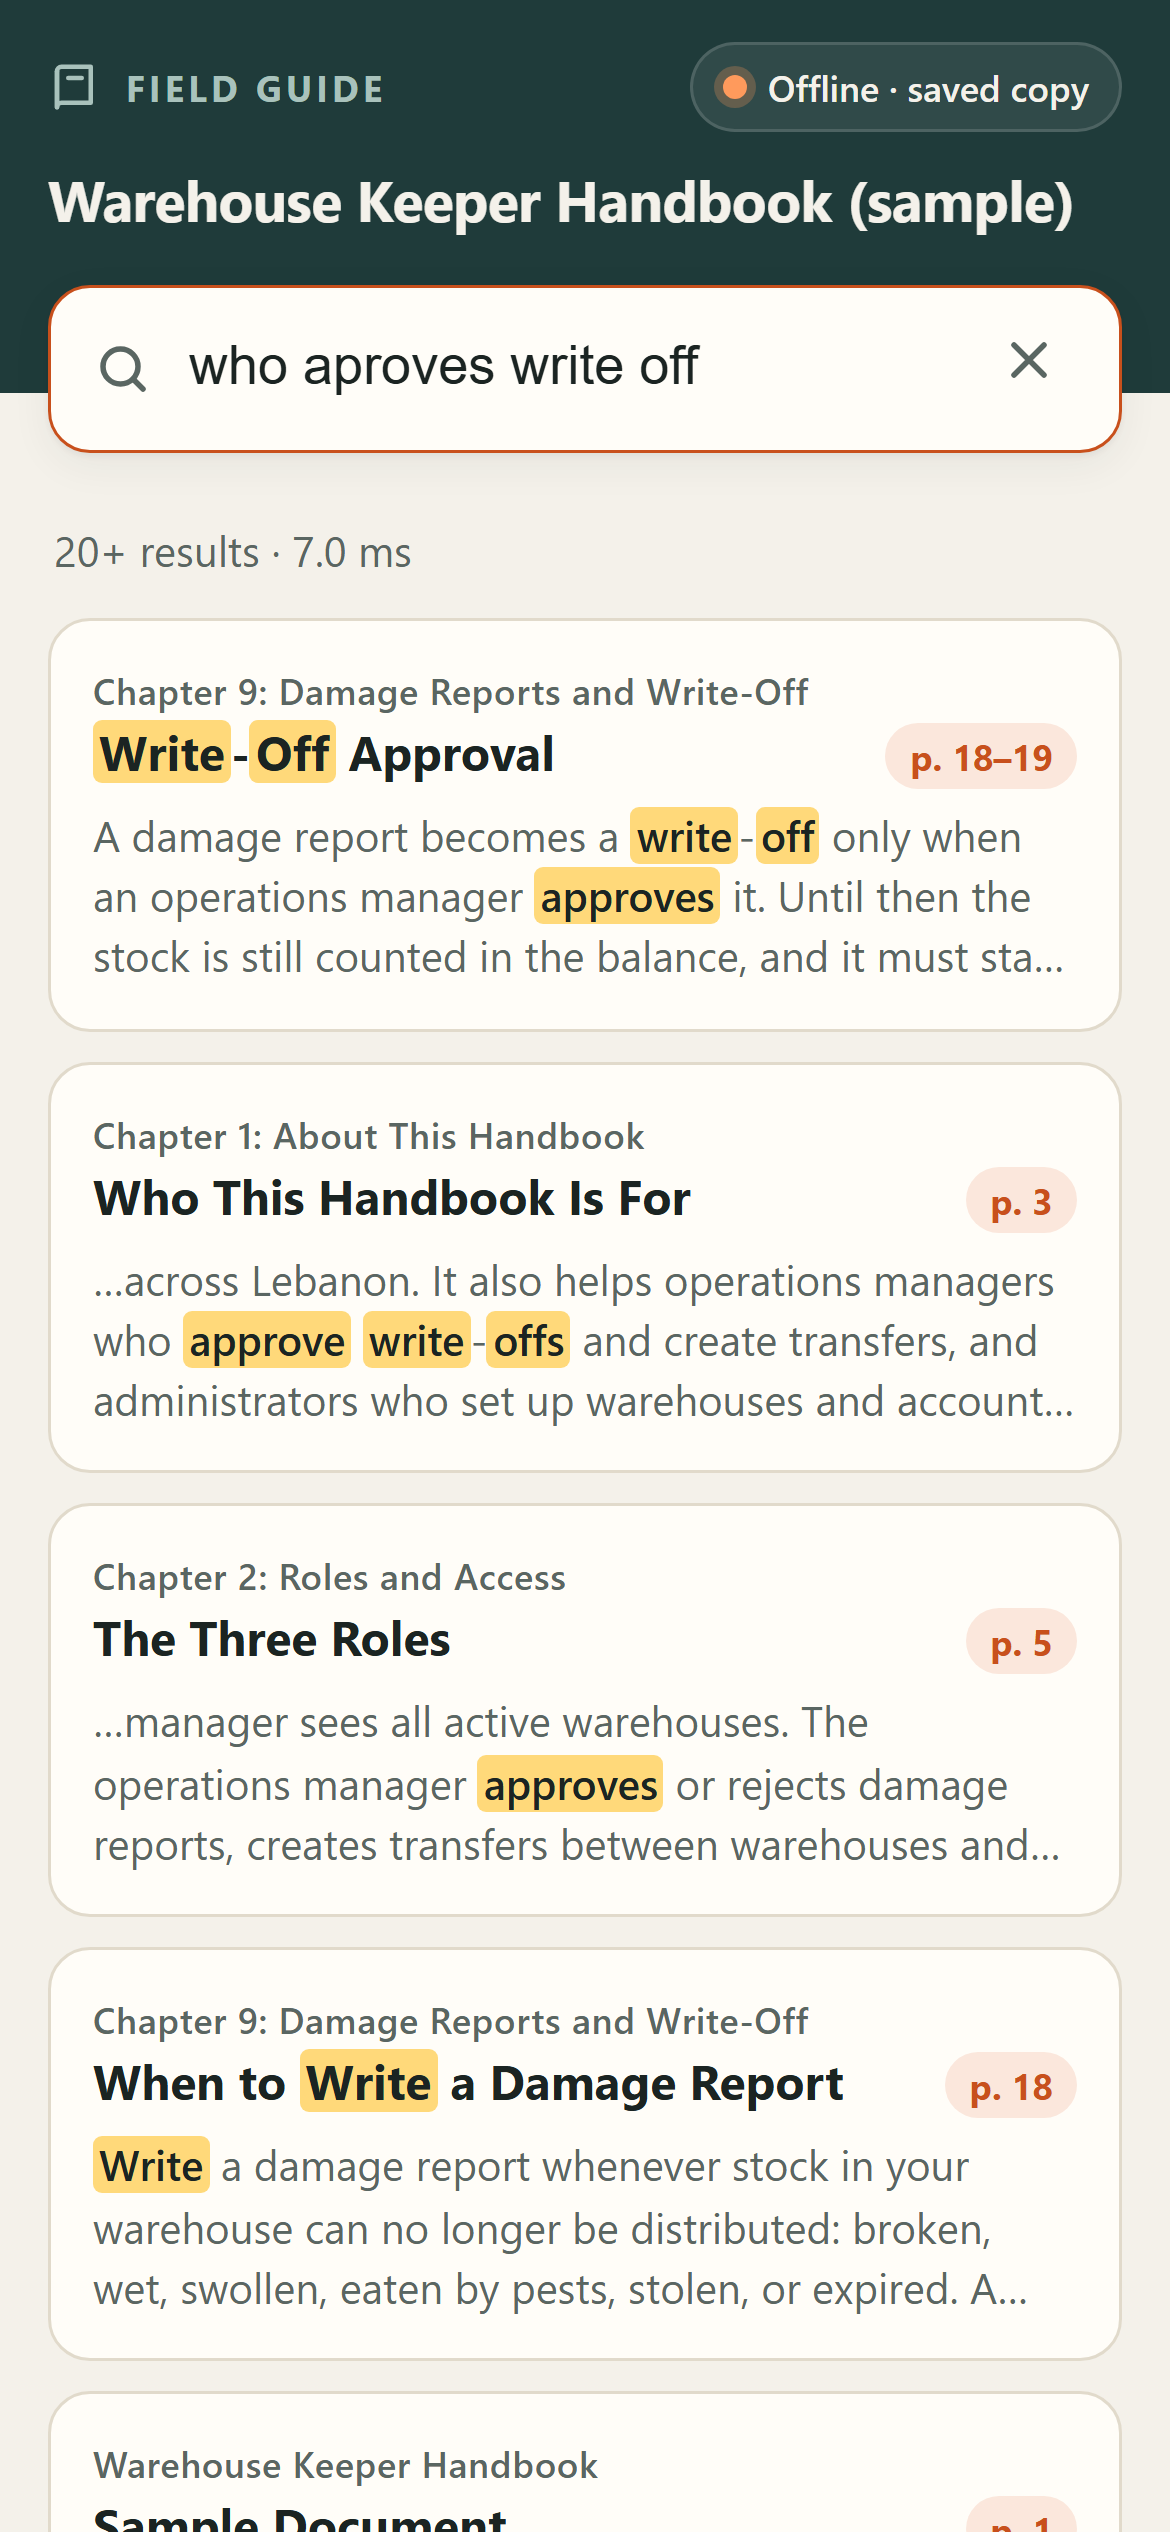
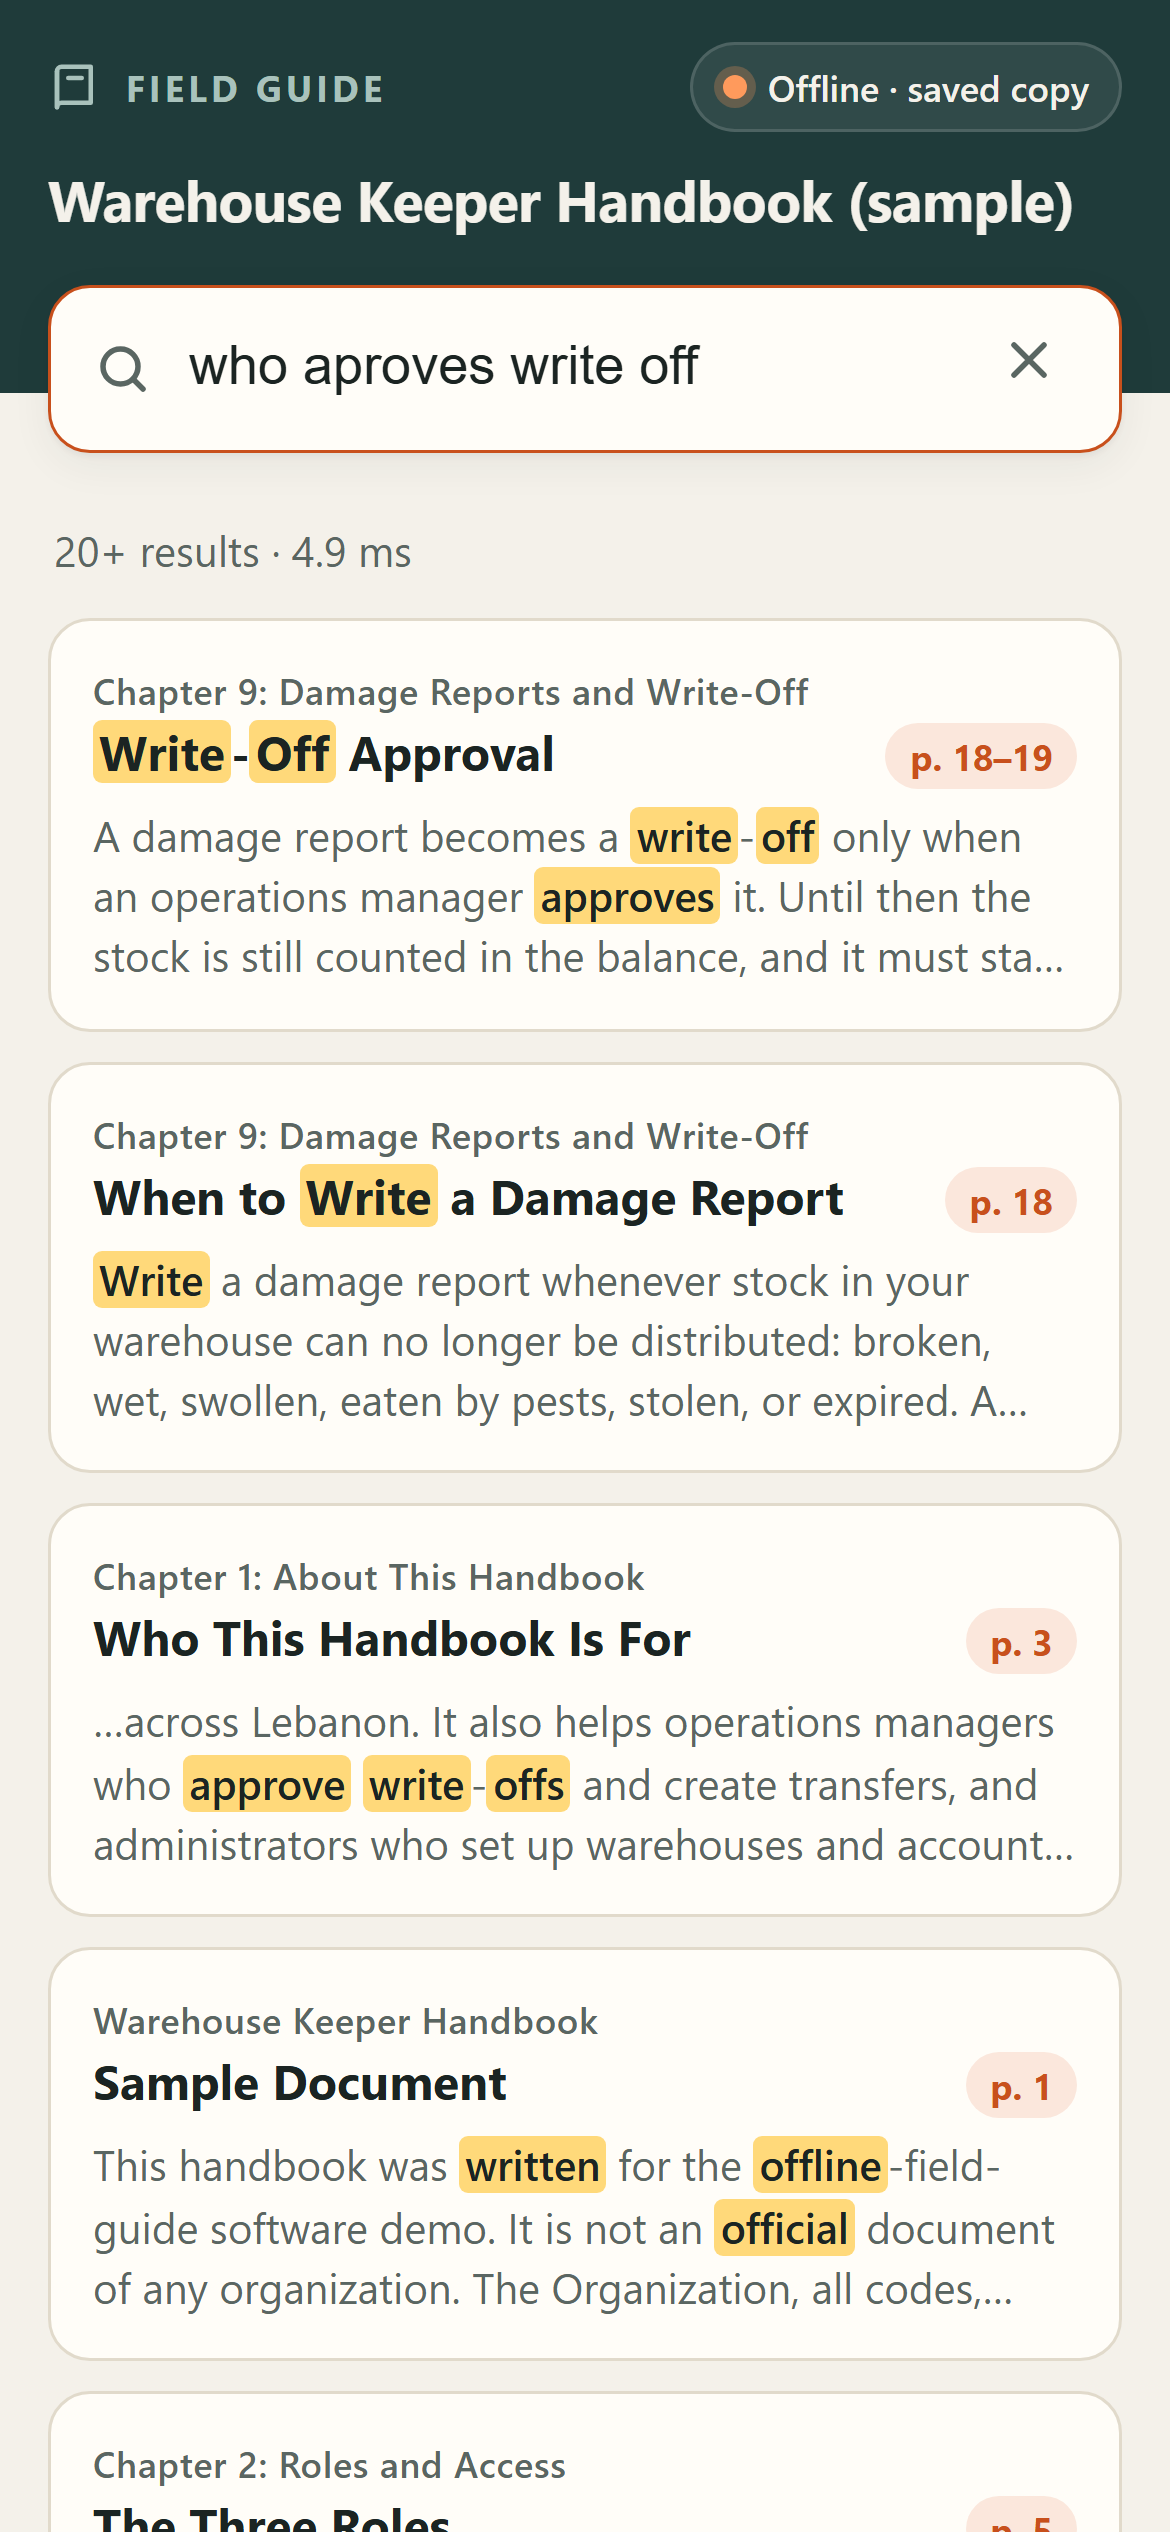
README: before/after on the tuned sets, unseen set once; recaptured screenshots

diff --git a/README.md b/README.md
@@ -6,13 +6,13 @@ Give it a long PDF manual and it builds a searchable guide that keeps working on
 
 <table>
 <tr>
-<td><img src="docs/results.png" width="250" alt="Search results for expired cans"></td>
+<td><img src="docs/results.png" width="250" alt="Search results for a misspelled query"></td>
 <td><img src="docs/section.png" width="250" alt="An opened procedure with highlighted terms and its source page"></td>
 <td><img src="docs/offline-search.png" width="250" alt="A misspelled search working with the network off"></td>
 </tr>
 <tr>
-<td>"expired cans"</td>
-<td>"damged box": the procedure, terms highlighted, source page shown</td>
+<td>"damged box": the procedure comes first</td>
+<td>The procedure opened, terms highlighted, source page shown</td>
 <td>"who aproves write off" with the network cut</td>
 </tr>
 </table>
@@ -66,17 +66,17 @@ Real output (the CERT build takes about 1.5 minutes, mostly table detection):
 ```
 Read 42 pages from warehouse-keeper-handbook.pdf
 Sections:        64
-Index terms:     1,021
+Index terms:     994
 sections.json:   58 KB
-index.json:      27 KB
-Total download:  133 KB in 10 files
+index.json:      29 KB
+Total download:  138 KB in 10 files
 Wrote site
 Read 268 pages from cert-basic-training-participant-manual.pdf
 Sections:        342
-Index terms:     3,612
+Index terms:     3,465
 sections.json:   412 KB
-index.json:      177 KB
-Total download:  638 KB in 10 files
+index.json:      189 KB
+Total download:  651 KB in 10 files
 Wrote site/cert
 Serving site at http://localhost:8101/
 ```
@@ -110,33 +110,50 @@ site/cert/    a second guide, with its own service worker and cache
 |---|---|
 | Page breaks | Headers and footers are removed first, so the last line of page N meets the first line of page N+1. A step or paragraph that has not finished its sentence continues; step 6 after step 5 extends the same procedure. |
 | Tables | Found with PyMuPDF's table finder; their cells are kept out of the text flow, so a bold header row is never mistaken for a heading. A table at the top of the next page stays with its section, and a table split over pages is merged with its repeated header row dropped. |
-| Search | `search.js`, about 180 lines of plain JavaScript, no dependencies. BM25 over the sections; each query word also matches words that start with it and, when nothing matches, words one typo away (two for long words). Accents are ignored, so "reception" finds "réception". |
+| Search | `search.js`, about 220 lines of plain JavaScript, no dependencies. BM25 over the sections; each query word also matches words that start with it and, when nothing matches, words one typo away (two for long words). Accents are ignored, so "reception" finds "réception". |
+| Ranking rules | A query word found in a section's own heading adds a bonus. Reference sections (glossary, appendices, lists, catalogues, forms, checklists, quick-reference cards, and sections that are almost all table) get 0.6 of their score, so the section that explains a procedure comes first when both match. Five groups of everyday equivalents (fewer/less, purchase order/PO, receive/receipt/reception, broken/damaged, amount/quantity) and plural/verb forms ("boxes" = "box", "damaged" = "damage"). |
 | Offline | Each guide's service worker caches every file of that guide on first load and serves from the cache afterwards. Caches are named per guide, so the two guides on one site never delete each other's files. |
 
 ## Results
 
 `node bench/run_bench.js <site> <questions>` runs the shipped `search.js`
 under Node. A hit means the opened section contains a page that holds the
-answer and is at most 6 pages long.
+answer and is at most 6 pages long. Three question sets:
 
-| | Handbook (new) | FEMA CERT manual |
+| Set | Who wrote it | Used for tuning? |
 |---|---|---|
-| Questions | 23 (20 English, 3 French) | 26 |
-| Top-1 accuracy | **17/23 (74%)** | 25/26 (96%), unchanged |
-| Top-3 accuracy | **20/23 (87%)** | 26/26 (100%), unchanged |
-| Index size | 27 KB (8 KB gzipped) | 177 KB (51 KB gzipped) |
-| Download, no page images | 134 KB, 10 files | 643 KB, 10 files |
-| Download, with page images | 1.04 MB, 52 files | 7.16 MB, 278 files |
-| Search time, median / p95 | 0.02 / 0.53 ms | 0.04 / 2.15 ms |
+| Handbook, original 23 (20 English, 3 French) | Me, the author of the handbook, before running any search on it | **Yes**, the ranking rules were tuned on it |
+| FEMA CERT, 26 | Me, after reading the manual (first version) | **Yes**, as a check that nothing got worse |
+| Handbook, unseen 25 (incl. 5 misspelled, 3 French) | A different model (Google Gemini) from the handbook's PDF text only, without seeing the other sets or the code | **No**, committed before any ranking change and measured once at the end |
 
-How the handbook questions were made: I wrote both the handbook and its
-questions, so this is not an independent test. I wrote the 23 questions the
-way a keeper might type them (three misspelled, three in French) after writing
-the handbook and **before running any search on it**, each with a phrase from
-the handbook that answers it; `bench/resolve_pages.py` turns the phrases into
-page numbers. I did not change any rule or label after seeing the results. The
-CERT questions and engine are the same as in the first version, so its numbers
-did not change.
+Accuracy before and after the ranking round:
+
+| Set | Top-1 before | Top-1 after | Top-3 before | Top-3 after |
+|---|---|---|---|---|
+| Handbook, original 23 (tuned on) | 17/23 (74%) | **20/23 (87%)** | 20/23 (87%) | **21/23 (91%)** |
+| FEMA CERT, 26 (tuned on) | 25/26 (96%) | 25/26 (96%) | 26/26 (100%) | 26/26 (100%) |
+| Handbook, unseen 25 (measured once) | not measured | **23/25 (92%)** | not measured | **24/25 (96%)** |
+
+The unseen set scored higher than the set I tuned on. That should not be read
+as "the tool is better than it looks": that model's questions stay closer to
+the handbook's wording than mine, and I saw its 25 queries when I checked the
+file format (I kept the synonym list to the general pairs named above, and
+measured the set only once, after the code was committed).
+
+Size and speed (final build):
+
+| | Handbook | FEMA CERT manual |
+|---|---|---|
+| Index size | 29 KB (9 KB gzipped) | 189 KB (53 KB gzipped) |
+| Download, no page images | 139 KB, 10 files | 656 KB, 10 files |
+| Download, with page images | 1.05 MB, 52 files | 7.17 MB, 278 files |
+| Search time, median / p95 | 0.02 / 0.48 ms | 0.04 / 1.56 ms |
+
+How the question sets were made: I wrote both the handbook and the original
+23 questions, so that set is not an independent test. Each question in every
+set carries a phrase from the manual that answers it;
+`bench/resolve_pages.py` turns the phrases into page numbers, and a test fails
+if a phrase stops matching the PDF.
 
 Offline proof, `python scripts/offline_check.py` (Playwright, headless
 Chromium, phone viewport): it opens both guides online, cuts the network,
@@ -149,9 +166,9 @@ PASS  /cert/: service worker active, caches hold [52, 278] files
 PASS  / opens with the network off: 'Warehouse Keeper Handbook (sample)'
 PASS  status shows offline ('Offline · saved copy')
 PASS  a request outside the cache fails (really offline)
-PASS  search 'damged box' offline: 20 results, top: 'Terms Used in This Handbook'
-PASS  opened section 'Terms Used in This Handbook' with 6 highlighted terms
-PASS  shows the source page ('Page 33 of the original')
+PASS  search 'damged box' offline: 20 results, top: 'Recording Damaged Stock'
+PASS  opened section 'Recording Damaged Stock' with 10 highlighted terms
+PASS  shows the source page ('Page 18 of the original')
 PASS  /cert/ opens with the network off: 'CERT Basic Training Participant Manual'
 PASS  status shows offline ('Offline · saved copy')
 PASS  a request outside the cache fails (really offline)
@@ -161,7 +178,7 @@ PASS  shows the source page ('Page 177 of the original')
 OFFLINE CHECK PASSED
 ```
 
-Tests: `pytest` runs 37 tests. The handbook tests regenerate the PDF and check
+Tests: `pytest` runs 42 tests. The handbook tests regenerate the PDF and check
 that each procedure the layout put over a page break comes out as one list,
 that the exceptions table at the top of page 11 stays in "Problems at
 Receipt", that the 77-row item table split over pages 34 to 36 is one table with
@@ -171,13 +188,14 @@ PDFs for the same hard cases and run the real `search.js` under Node.
 
 ## Where it fails
 
-- **Glossary and appendices outrank the explanation.** "damged box" opens the
-  glossary first (the procedure is third); "unlock warehouse" opens the
-  warehouse list, where "Unlocked" appears 26 times; "short expiry donation"
-  opens a paper form.
-- **Different words for the same thing.** "less pieces than order" misses the
-  row "Fewer pieces than the purchase order": there is no synonym handling.
-- **Strict labels.** "recieve without po" and "balance negative" are counted
+- **Down-weighting reference sections cuts both ways.** "soap bar pieces per
+  box" (unseen set) misses: the answer is a row of the item catalogue, which is
+  now a reference section, so "Counting in Pieces" wins. The same rule fixed
+  "damged box", which used to open the glossary.
+- **Heading bonus can pick the wrong heading.** "expired cans" now opens
+  "First Expired, First Out" first; the expiry check that answers it is
+  second.
+- **Strict labels.** "recieve without po" and "balance negative" still count
   as misses, but their top results ("If a Delivery Arrives Without an Accepted
   Purchase Order", "If the System Refuses a Paper Document") also answer the
   question. I kept the labels I wrote before running the test.
@@ -196,7 +214,7 @@ PDFs for the same hard cases and run the real `search.js` under Node.
 
 ## What I would add next
 
-- A confidence floor that says "not covered in this manual", and a small synonym list per manual.
+- A confidence floor that says "not covered in this manual", and an optional synonym list per manual.
 - Arabic tokenization and an Arabic version of the handbook.
 - An optional LLM step that answers in one sentence and cites the section; the retrieval here would be its source of truth.
 

diff --git a/CLAUDE.md b/CLAUDE.md
@@ -33,4 +33,5 @@ node bench/run_bench.js site/cert bench/cert-questions.json
 - After editing handbook.txt: regenerate the PDF, then run resolve_pages.py; tests check both.
 - Build the root guide before the cert/ one: `build` deletes its output folder.
 - Each guide must be opened once online before it works offline.
+- Ranking: heading bonus, reference sections x0.6 (index.py), synonyms in search.js. Tune only on bench/handbook-questions.json and cert; handbook-unseen.json is the held-out set.
 - Page numbers shown are PDF page numbers. Arabic text is not indexed.
